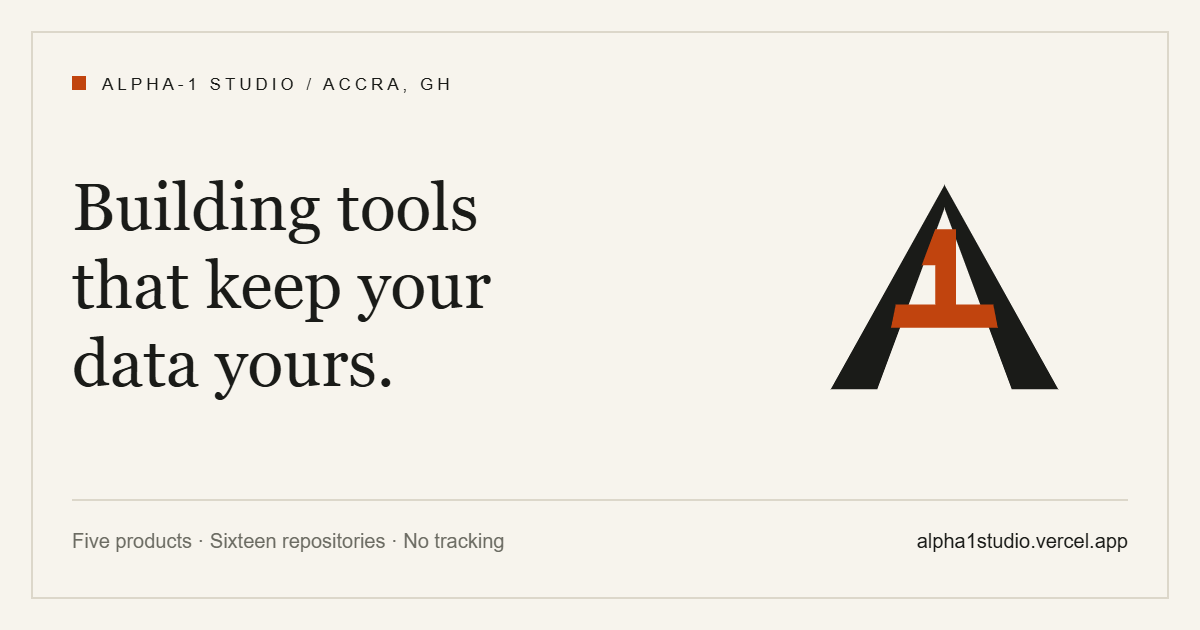
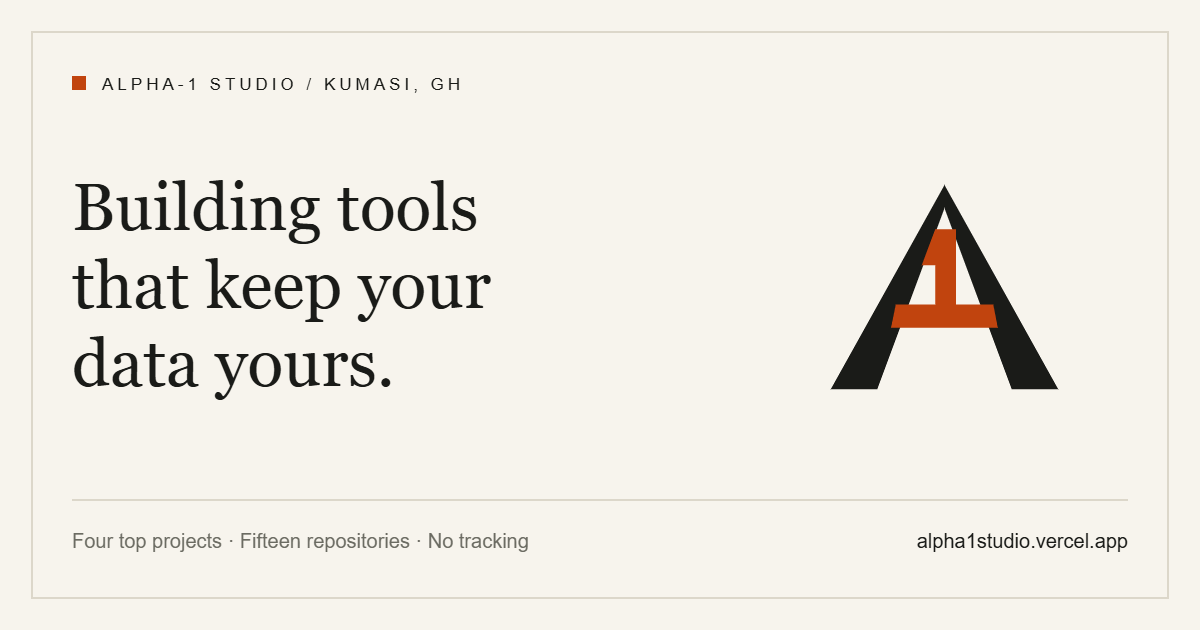
Correct Sam's location from Accra to Kumasi across the site and brand assets

Changed region(s): [[0.0617, 0.8444, 0.4625, 0.8746], [0.2467, 0.1206, 0.4008, 0.1508]]

diff --git a/index.html b/index.html
@@ -4,7 +4,7 @@
 <meta charset="utf-8">
 <meta name="viewport" content="width=device-width, initial-scale=1">
 <title>Alpha-1 Studio — tools that keep your data yours</title>
-<meta name="description" content="Independent technology studio in Accra, Ghana. BLACKBOX, GIA, GIA Cowork and Terra-Core, plus the full public index. No accounts, no analytics, no third-party requests.">
+<meta name="description" content="Independent technology studio in Kumasi, Ghana. BLACKBOX, GIA, GIA Cowork and Terra-Core, plus the full public index. No accounts, no analytics, no third-party requests.">
 <meta name="theme-color" content="#F7F4ED">
 <meta name="author" content="Samuel Mensah">
 <link rel="canonical" href="https://alpha1studio.vercel.app/">
@@ -12,14 +12,14 @@
 <meta property="og:site_name" content="Alpha-1 Studio">
 <meta property="og:url" content="https://alpha1studio.vercel.app/">
 <meta property="og:title" content="Alpha-1 Studio — tools that keep your data yours">
-<meta property="og:description" content="Four top projects and a full public index, built in Ghana.">
+<meta property="og:description" content="Four top projects and a full public index, built in Kumasi, Ghana.">
 <meta property="og:image" content="https://alpha1studio.vercel.app/og.png">
 <meta property="og:image:width" content="1200">
 <meta property="og:image:height" content="630">
 <meta property="og:image:alt" content="Alpha-1 Studio wordmark and tagline on warm paper">
 <meta name="twitter:card" content="summary_large_image">
 <meta name="twitter:title" content="Alpha-1 Studio — tools that keep your data yours">
-<meta name="twitter:description" content="Four top projects and a full public index, built in Ghana.">
+<meta name="twitter:description" content="Four top projects and a full public index, built in Kumasi, Ghana.">
 <meta name="twitter:image" content="https://alpha1studio.vercel.app/og.png">
 <link rel="icon" href="favicon.svg" type="image/svg+xml">
 <link rel="icon" href="favicon.ico" sizes="any">
@@ -27,8 +27,8 @@
 <link rel="manifest" href="manifest.webmanifest">
 <script type="application/ld+json">
 {"@context":"https://schema.org","@graph":[
-{"@type":"Organization","@id":"https://alpha1studio.vercel.app/#org","name":"Alpha-1 Studio","url":"https://alpha1studio.vercel.app/","logo":"https://alpha1studio.vercel.app/icon-512.png","description":"Independent technology studio building privacy-first products, AI tools and developer utilities.","foundingLocation":{"@type":"Place","name":"Accra, Ghana"},"founder":{"@id":"https://alpha1studio.vercel.app/#sam"},"email":"alphariansamuel@gmail.com","sameAs":["https://github.com/alpha-1-design"]},
-{"@type":"Person","@id":"https://alpha1studio.vercel.app/#sam","name":"Samuel Mensah","jobTitle":"Full-Stack Developer and Creative Engineer","description":"Full-stack developer, hosting specialist, video editor, photo editor and creative engineer based in Ghana.","image":"https://alpha1studio.vercel.app/assets/portrait.webp","email":"alphariansamuel@gmail.com","worksFor":{"@id":"https://alpha1studio.vercel.app/#org"},"sameAs":["https://github.com/alpha-1-design","https://t.me/Alpharianbaby1","https://www.instagram.com/samuelmensah607","https://youtube.com/@alpharianbaby"]},
+{"@type":"Organization","@id":"https://alpha1studio.vercel.app/#org","name":"Alpha-1 Studio","url":"https://alpha1studio.vercel.app/","logo":"https://alpha1studio.vercel.app/icon-512.png","description":"Independent technology studio building privacy-first products, AI tools and developer utilities.","foundingLocation":{"@type":"Place","name":"Kumasi, Ghana"},"founder":{"@id":"https://alpha1studio.vercel.app/#sam"},"email":"alphariansamuel@gmail.com","sameAs":["https://github.com/alpha-1-design"]},
+{"@type":"Person","@id":"https://alpha1studio.vercel.app/#sam","name":"Samuel Mensah","jobTitle":"Full-Stack Developer and Creative Engineer","description":"Full-stack developer, hosting specialist, video editor, photo editor and creative engineer based in Kumasi, Ghana.","image":"https://alpha1studio.vercel.app/assets/portrait.webp","email":"alphariansamuel@gmail.com","worksFor":{"@id":"https://alpha1studio.vercel.app/#org"},"sameAs":["https://github.com/alpha-1-design","https://t.me/Alpharianbaby1","https://www.instagram.com/samuelmensah607","https://youtube.com/@alpharianbaby"]},
 {"@type":"WebSite","@id":"https://alpha1studio.vercel.app/#site","url":"https://alpha1studio.vercel.app/","name":"Alpha-1 Studio","publisher":{"@id":"https://alpha1studio.vercel.app/#org"},"inLanguage":"en"},
 {"@type":"WebPage","@id":"https://alpha1studio.vercel.app/#page","url":"https://alpha1studio.vercel.app/","name":"Alpha-1 Studio — tools that keep your data yours","isPartOf":{"@id":"https://alpha1studio.vercel.app/#site"},"about":{"@id":"https://alpha1studio.vercel.app/#org"},"mentions":{"@id":"https://alpha1studio.vercel.app/#sam"},"primaryImageOfPage":"https://alpha1studio.vercel.app/og.png"},
 {"@type":"ItemList","name":"Alpha-1 Studio top projects","itemListElement":[
@@ -332,9 +332,9 @@ kbd{font-family:var(--mono);font-size:var(--t1);border:1px solid var(--ln);borde
 <section class="hero" id="top"><div class="wrap">
   <div class="hero-grid">
     <div>
-      <div class="eyebrow hero-line">Independent technology studio · Accra, Ghana · est. 2025</div>
+      <div class="eyebrow hero-line">Independent technology studio · Kumasi, Ghana · est. 2025</div>
       <h1 class="hero-line">Tools that keep your data yours.</h1>
-      <p class="lede hero-line">Four top projects, one index for everything else. Websites, apps and open source, all on one page. No accounts, no analytics, no third-party requests. Built in Ghana, used everywhere.</p>
+      <p class="lede hero-line">Four top projects, one index for everything else. Websites, apps and open source, all on one page. No accounts, no analytics, no third-party requests. Built in Kumasi, used everywhere.</p>
       <div class="actions hero-line">
         <a class="btn btn-primary" href="#work" data-magnetic>Explore the work <span aria-hidden="true">→</span></a>
         <a class="btn btn-ghost" href="#contact" data-magnetic>Get in touch</a>
@@ -436,7 +436,7 @@ kbd{font-family:var(--mono);font-size:var(--t1);border:1px solid var(--ln);borde
   <div class="foot-top">
     <div>
       <div class="foot-mark"><img class="wm" src="wordmark-compact.svg" alt="Alpha-1 Studio" width="190" height="44"></div>
-      <p>Independent technology studio. Privacy-first products, open repositories, built in Accra and available worldwide.</p>
+      <p>Independent technology studio. Privacy-first products, open repositories, built in Kumasi and available worldwide.</p>
     </div>
     <div class="foot-col"><h4>Site map</h4>
       <a href="#top">Home</a><a href="#work">Top projects</a><a href="#directory">Directory</a><a href="#receipts">Principles</a><a href="#open">Open source</a><a href="#about">About me</a><a href="#contact">Contact</a>
@@ -731,11 +731,11 @@ var DATA = {
   about:{
   "name": "Samuel Mensah",
   "availability": "Available for hire",
-  "location": "Based in Ghana, available worldwide",
+  "location": "Based in Kumasi, Ghana, available worldwide",
   "portrait": "assets/portrait.webp",
   "portrait_alt": "Full-length portrait of Samuel Mensah in legal robes and wig, standing before a teal doorway",
   "portrait_caption": "Samuel Mensah",
-  "portrait_place": "Accra, GH",
+  "portrait_place": "Kumasi, GH",
   "tagline": "I craft digital experiences that merge technical precision with creative vision. From full-stack development to multimedia production, I deliver solutions that perform at the highest level.",
   "bio": [
     "I'm a passionate web developer and software engineer with a keen eye for design and functionality. My journey in technology has equipped me with diverse skills ranging from full-stack development to creative multimedia production.",

diff --git a/README.md b/README.md
@@ -39,7 +39,7 @@ Sam Atlas and Symphonia are not part of Alpha-1 Studio and are intentionally abs
 
 ## Built by
 
-Samuel Mensah · Accra, Ghana · alphariansamuel@gmail.com
+Samuel Mensah · Kumasi, Ghana · alphariansamuel@gmail.com
 https://github.com/alpha-1-design
 
 © 2026 Alpha-1 Studio.
